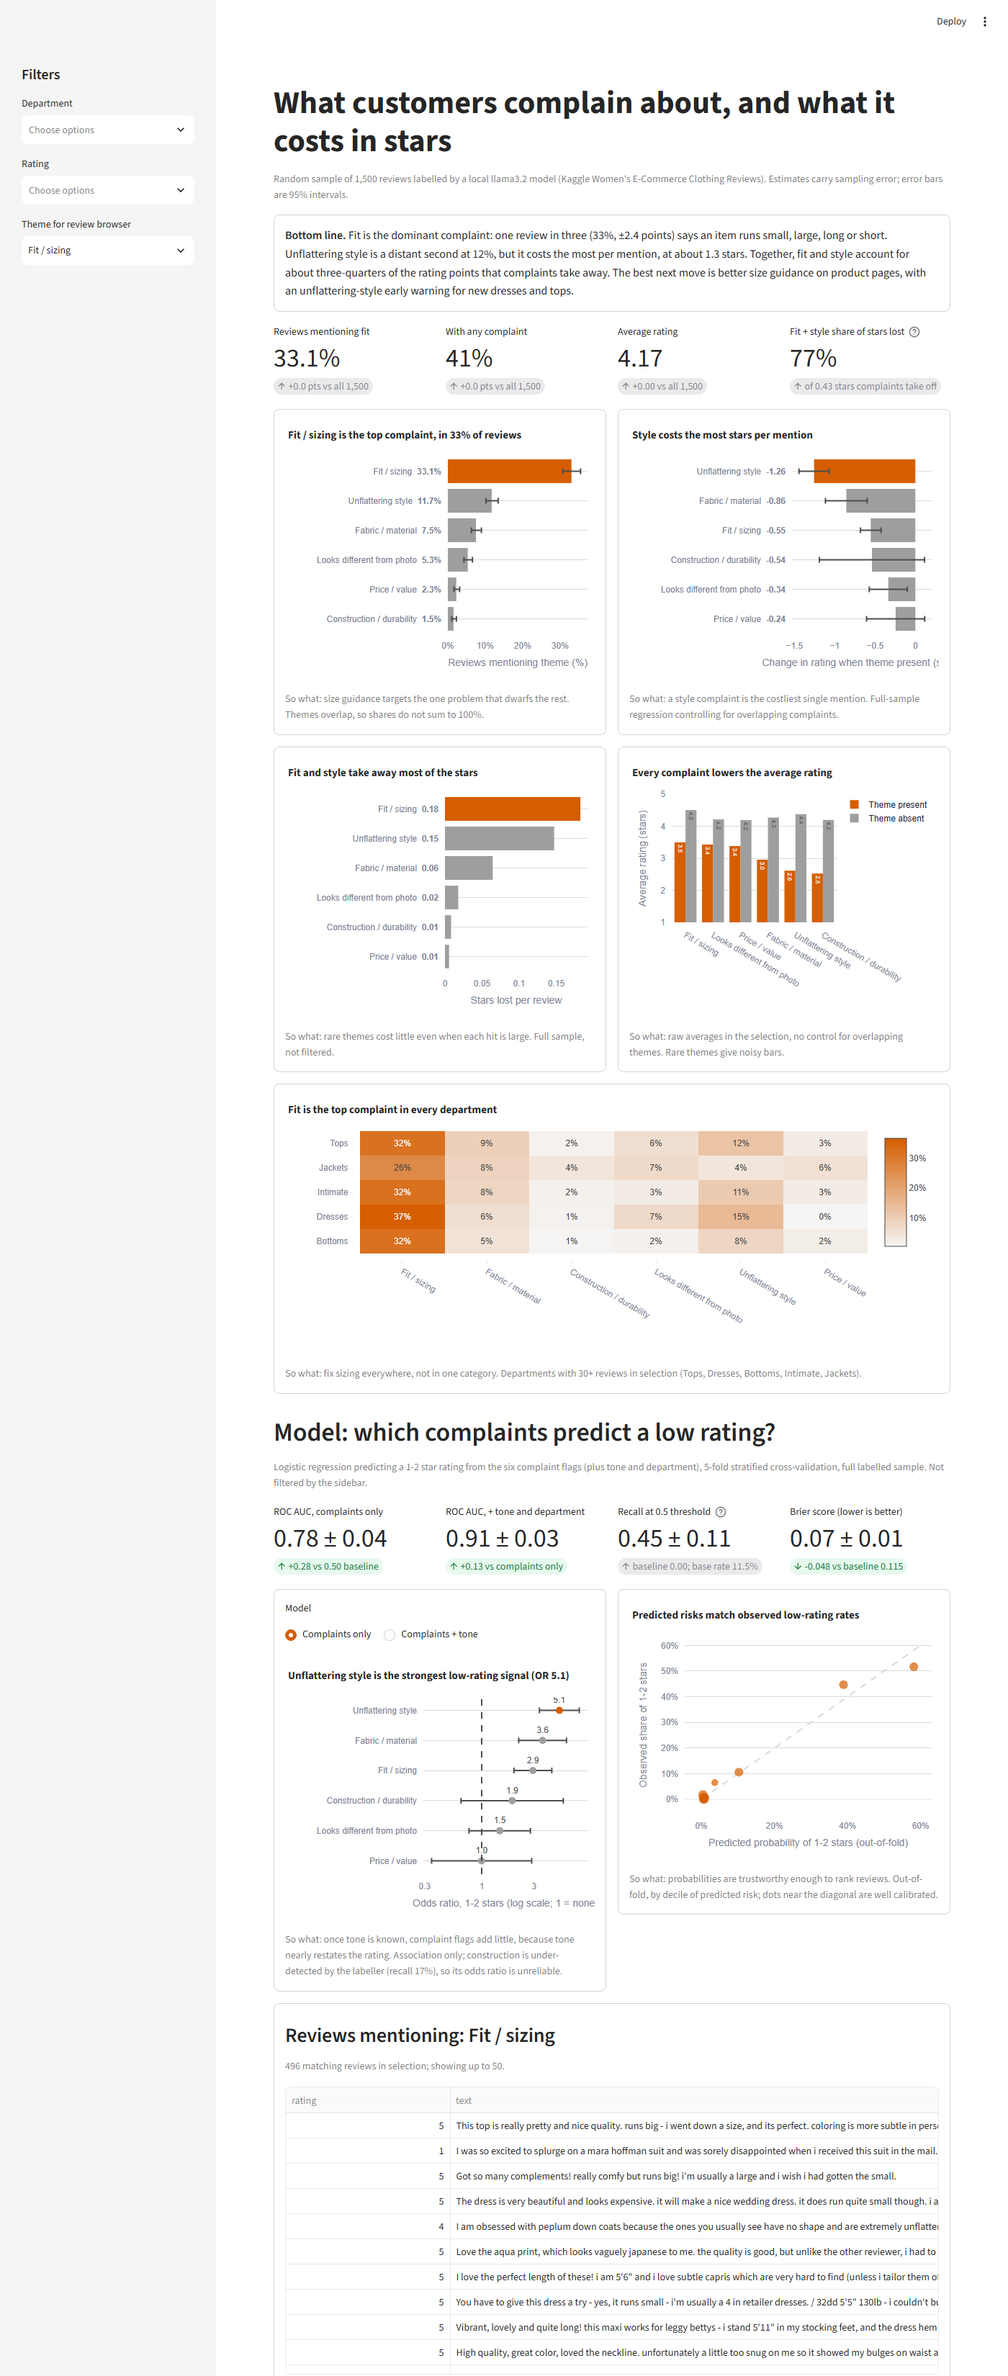
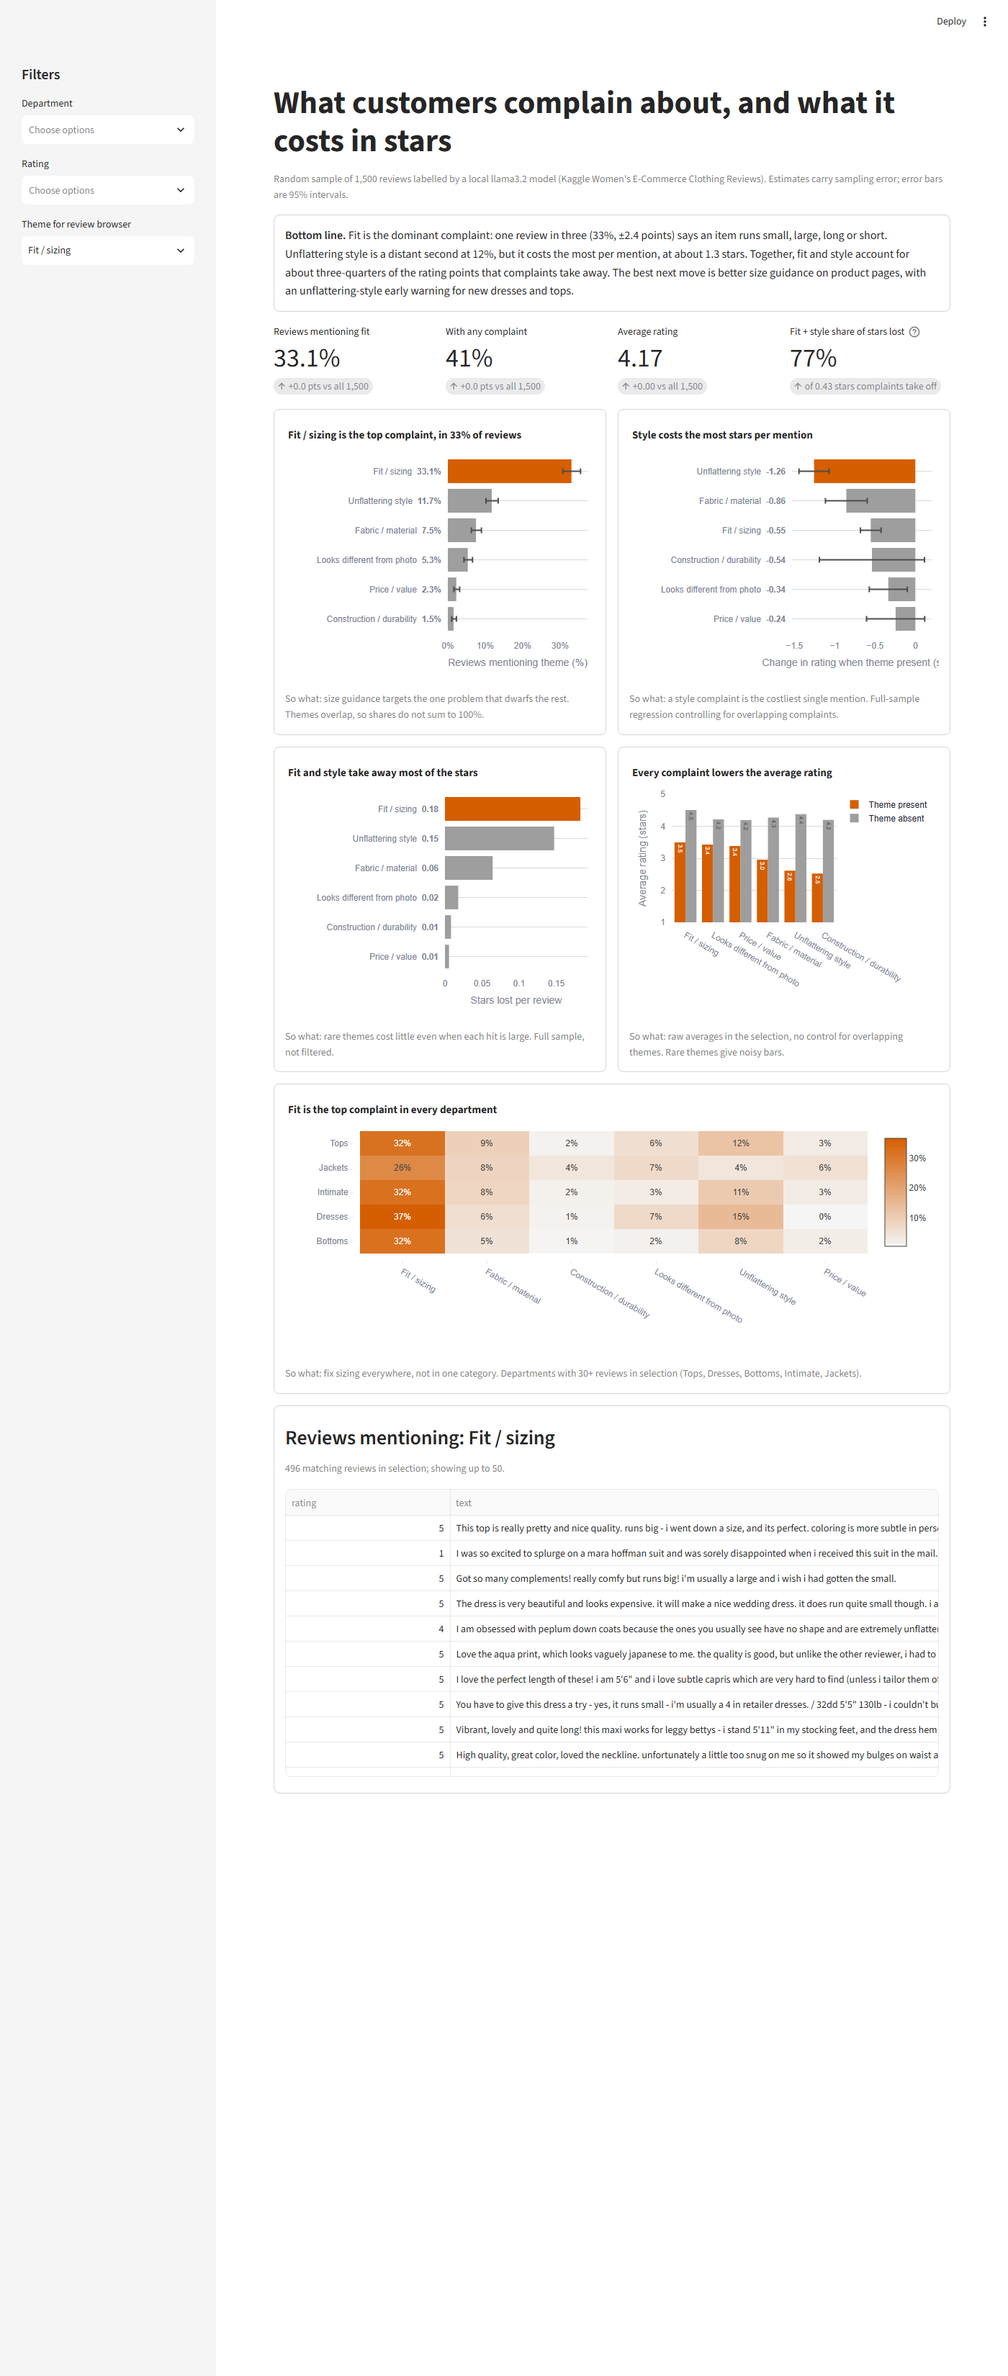
Visuals upgrade only: themed dashboard, README preview and figures; predictive model kept on branch predictive-model

diff --git a/app.py b/app.py
@@ -6,7 +6,6 @@ import streamlit as st
 ACCENT, GREY, LIGHT, TEXT = "#D55E00", "#9E9E9E", "#D9D9D9", "#4D4D4D"
 THEMES = {"fit": "Fit / sizing", "fabric": "Fabric / material", "build": "Construction / durability",
           "photo": "Looks different from photo", "style": "Unflattering style", "price": "Price / value"}
-TERMS = {**THEMES, "tone_mixed": "Mixed tone", "tone_neg": "Negative tone"}
 st.set_page_config(page_title="Review Insights", layout="wide")
 
 
@@ -17,8 +16,7 @@ def load():
     df["any"] = df[list(THEMES)].any(axis=1)
     mod = pd.read_csv("outputs/rating_model.csv")
     mod = mod[mod["spec"] == "themes only"].assign(name=lambda d: d["theme"].map(THEMES))
-    cv = pd.read_csv("outputs/06_model_cv.csv").set_index("model")
-    return df, mod, cv, pd.read_csv("outputs/08_model_odds_ratios.csv"), pd.read_csv("outputs/07_model_calibration.csv")
+    return df, mod
 
 
 def wilson(k, n, z=1.96):
@@ -45,31 +43,7 @@ def hbar(d, x, y, title, xtitle, fmt, hover, lo=None, hi=None, **kw):
     return layout(fig, title, xtitle, "", **kw)
 
 
-def forest(d, title):
-    d = d.sort_values("odds_ratio")
-    top = d["odds_ratio"].idxmax()
-    fig = go.Figure(go.Scatter(
-        x=d["odds_ratio"], y=d["name"], mode="markers+text", text=d["odds_ratio"].map("{:.1f}".format),
-        textposition="top center", marker=dict(size=10, color=[ACCENT if i == top else GREY for i in d.index]),
-        error_x=dict(type="data", symmetric=False, array=d["ci_high"] - d["odds_ratio"],
-                     arrayminus=d["odds_ratio"] - d["ci_low"], color=TEXT), customdata=d[["ci_low", "ci_high"]],
-        hovertemplate="%{y}<br>odds ratio %{x:.2f} (95% CI %{customdata[0]:.2f} to %{customdata[1]:.2f})<extra></extra>"))
-    fig.add_vline(x=1, line_dash="dash", line_color=TEXT)
-    fig.update_xaxes(type="log", tickvals=[.1, .3, 1, 3, 10, 30, 100, 300], ticktext=["0.1", "0.3", "1", "3", "10", "30", "100", "300"])
-    return layout(fig, title, "Odds ratio, 1-2 stars (log scale; 1 = none)", "")
-
-
-def calibration(cal, title):
-    fig = go.Figure([go.Scatter(x=[0, .6], y=[0, .6], mode="lines", line=dict(color=LIGHT, dash="dash"), hoverinfo="skip"),
-                     go.Scatter(x=cal["predicted"], y=cal["observed"], mode="markers", marker_color=ACCENT,
-                                marker_size=cal["n"] ** .5, customdata=cal["n"],
-                                hovertemplate="predicted %{x:.1%}, observed %{y:.1%}<br>%{customdata} reviews<extra></extra>")])
-    fig.update_xaxes(tickformat=".0%")
-    fig.update_yaxes(tickformat=".0%")
-    return layout(fig, title, "Predicted probability of 1-2 stars (out-of-fold)", "Observed share of 1-2 stars")
-
-
-df, mod, cv, orr, cal = load()
+df, mod = load()
 st.title("What customers complain about, and what it costs in stars")
 st.caption(f"Random sample of {len(df):,} reviews labelled by a local llama3.2 model (Kaggle Women's E-Commerce "
            "Clothing Reviews). Estimates carry sampling error; error bars are 95% intervals.")
@@ -153,31 +127,6 @@ with st.container(border=True):
                                    hovertemplate="%{y}, %{x}: %{z:.1%}<extra></extra>", colorbar_tickformat=".0%"))
         st.plotly_chart(layout(fig, "Fit is the top complaint in every department", "", ""), width="stretch")
         st.caption(f"So what: fix sizing everywhere, not in one category. Departments with 30+ reviews in selection ({', '.join(keep)}).")
-
-st.header("Model: which complaints predict a low rating?")
-st.caption("Logistic regression predicting a 1-2 star rating from the six complaint flags (plus tone and department), "
-           "5-fold stratified cross-validation, full labelled sample. Not filtered by the sidebar.")
-full, flg, base = (cv.loc[s] for s in ["flags + tone + department", "flags only", "majority baseline"])
-sd = lambda r, c: f"{r[c + '_mean']:.2f} ± {r[c + '_sd']:.2f}"
-mk = st.columns(4)
-mk[0].metric("ROC AUC, complaints only", sd(flg, "auc"), f"{flg['auc_mean'] - base['auc_mean']:+.2f} vs 0.50 baseline")
-mk[1].metric("ROC AUC, + tone and department", sd(full, "auc"), f"{full['auc_mean'] - flg['auc_mean']:+.2f} vs complaints only")
-mk[2].metric("Recall at 0.5 threshold", sd(full, "recall"), f"baseline {base['recall_mean']:.2f}; base rate {full['base_rate']:.1%}", delta_color="off",
-             help=f"Precision at 0.5: {sd(full, 'precision')}. The baseline predicts no positives, so its precision is undefined (shown as 0).")
-mk[3].metric("Brier score (lower is better)", sd(full, "brier"), f"{full['brier_mean'] - base['brier_mean']:+.3f} vs baseline {base['brier_mean']:.3f}", delta_color="inverse")
-
-m1, m2 = st.columns(2)
-with m1.container(border=True):
-    spec = st.radio("Model", ["flags only", "flags + tone + department"], horizontal=True,
-                    format_func=lambda s: "Complaints only" if s == "flags only" else "Complaints + tone")
-    o = orr[(orr["spec"] == spec) & orr["term"].isin(TERMS)].assign(name=lambda d: d["term"].map(TERMS))
-    top = o.loc[o["odds_ratio"].idxmax()]
-    st.plotly_chart(forest(o, f"{top['name']} is the strongest low-rating signal (OR {top['odds_ratio']:.1f})"), width="stretch")
-    st.caption("So what: once tone is known, complaint flags add little, because tone nearly restates the rating. "
-               "Association only; construction is under-detected by the labeller (recall 17%), so its odds ratio is unreliable.")
-with m2.container(border=True):
-    st.plotly_chart(calibration(cal, "Predicted risks match observed low-rating rates"), width="stretch")
-    st.caption("So what: probabilities are trustworthy enough to rank reviews. Out-of-fold, by decile of predicted risk; dots near the diagonal are well calibrated.")
 
 with st.container(border=True):
     st.subheader(f"Reviews mentioning: {THEMES[browse]}")

diff --git a/make_figures.py b/make_figures.py
@@ -2,6 +2,7 @@
 import matplotlib.pyplot as plt
 import numpy as np
 import pandas as pd
+from matplotlib.colors import LinearSegmentedColormap
 
 ACCENT, GREY, LIGHT, TEXT = "#D55E00", "#9E9E9E", "#D9D9D9", "#4D4D4D"
 NAMES = {"fit": "Fit / sizing", "fabric": "Fabric / material", "build": "Construction / durability",
@@ -48,28 +49,14 @@ bars(mod.assign(coef=mod["drop"], lo=-mod["ci_high"], hi=-mod["ci_low"]), "coef"
 bars(mod, "lost", "label", "Fit and style make up most of the stars complaints take away",
      "Stars lost per review (penalty x prevalence)", "fig3_stars_lost", "{:.2f}")
 
-orr = pd.read_csv("outputs/08_model_odds_ratios.csv")
-orr = orr[(orr["spec"] == "flags only")].assign(label=lambda d: d["term"].map(NAMES)).sort_values("odds_ratio")
+dep = pd.read_csv("outputs/03_theme_by_department.csv")
+dep = dep.pivot(index="department", columns="theme", values=dep.columns[-1]).rename(columns=NAMES)
+dep = dep[[NAMES[t] for t in ["fit", "style", "fabric", "photo", "price", "build"]]]
 fig, ax = plt.subplots(figsize=(8, 4))
-ax.errorbar(orr["odds_ratio"], orr["label"], xerr=[orr["odds_ratio"] - orr["ci_low"], orr["ci_high"] - orr["odds_ratio"]],
-            fmt="none", ecolor=TEXT, capsize=3)
-ax.scatter(orr["odds_ratio"], orr["label"], s=60, zorder=3, color=[GREY] * (len(orr) - 1) + [ACCENT])
-for i, v in enumerate(orr["odds_ratio"]):
-    ax.annotate(f"{v:.1f}", (v, i), xytext=(0, 8), textcoords="offset points", ha="center", fontsize=9)
-ax.axvline(1, color=TEXT, ls="--")
-ax.set_xscale("log")
-ax.set_xticks([0.5, 1, 2, 5, 10], ["0.5", "1", "2", "5", "10"])
-ax.grid(axis="y", visible=False)
-save(fig, "Style and fabric complaints most strongly predict a 1-2 star rating",
-     "Odds ratio of a 1-2 star rating (log scale; 1 = no association; 95% CI)", "fig4_odds_ratios")
-
-cal = pd.read_csv("outputs/07_model_calibration.csv")
-fig, ax = plt.subplots(figsize=(6, 5))
-ax.plot([0, .6], [0, .6], color=GREY, ls="--", label="Perfect calibration")
-ax.scatter(cal["predicted"], cal["observed"], s=cal["n"], color=ACCENT, zorder=3, label="Decile of predicted risk")
-ax.set(ylabel="Observed share of 1-2 stars")
-ax.xaxis.set_major_formatter("{x:.0%}")
-ax.yaxis.set_major_formatter("{x:.0%}")
-ax.legend(frameon=False)
-save(fig, "Predicted low-rating risks match what was observed", "Predicted probability of 1-2 stars (out-of-fold)",
-     "fig5_calibration")
+ax.grid(False)
+ax.imshow(dep, cmap=LinearSegmentedColormap.from_list("a", ["#F5F5F5", ACCENT]), aspect="auto")
+ax.set_xticks(range(dep.shape[1]), dep.columns, rotation=20, ha="right")
+ax.set_yticks(range(dep.shape[0]), dep.index)
+for (i, j), v in np.ndenumerate(dep.values):
+    ax.annotate(f"{v:.0%}", (j, i), ha="center", va="center", fontsize=9)
+save(fig, "Fit is the top complaint in every department", "", "fig4_department")

diff --git a/README.md b/README.md
@@ -25,6 +25,8 @@ Run it with `streamlit run app.py`.
 
 ![Complaint prevalence](assets/fig1_prevalence.png)
 
+![Theme rate by department](assets/fig4_department.png)
+
 3. **Unflattering style is linked to the biggest rating drop per mention, and fit to the biggest drop in total.** A regression controls for reviews that raise several complaints at once. Holding the other complaints constant, an unflattering-style complaint goes with 1.26 fewer stars, a fabric complaint with 0.86 fewer, fit with 0.55 fewer and photo mismatch with 0.34 fewer. Price and construction effects are not statistically distinguishable from zero. Multiplying each penalty by how often the complaint appears, fit costs 0.18 stars per average review and style 0.15. Those two make up 77% of the roughly 0.43 stars that complaints take off the average rating.
 
 ![Stars lost per mention](assets/fig2_penalty.png)
@@ -33,7 +35,6 @@ Run it with `streamlit run app.py`.
 
 4. **The model agrees moderately to well on the big themes but undercounts construction complaints.** On the 100 reference reviews, theme-level agreement ranges from 83% (fit) to 99% (price). Cohen's kappa is 0.81 for style, 0.67 for fabric and 0.59 for both fit and photo. Tone agreement is 93% (kappa 0.86). All six theme labels match exactly on 67 of 100 reviews. The weak spot is construction and durability: the model caught 1 of the 6 the reference found (recall 17%, kappa 0.27). The 1.5% construction rate is therefore an undercount and should not be read as "construction is not a problem."
 5. **The results are not a department-mix artifact, and the sample is representative.** Adding department to the regression moves no coefficient by more than 0.03 stars, so no Simpson's paradox appears. The sample's rating and department mix are within 0.9 points of the full 22,634 reviews on every category.
-6. **Complaints alone rank low ratings (AUC 0.78 ± 0.04 vs 0.50 for the baseline), with style, fabric and fit the strongest signals, but they catch only 13% of low ratings at a 0.5 cutoff.** See section 4; tone adds most of the extra accuracy and is nearly a restatement of the rating.
 
 ## 3. Recommendations (ranked by impact vs. effort)
 
@@ -45,36 +46,13 @@ Run it with `streamlit run app.py`.
 
 The star gains are small because the average is already 4.2 and most reviews are positive. The practical value is fewer 1–2 star reviews on the items that drive them, plus fewer returns.
 
-## 4. Model: which complaints predict a low rating?
-
-A logistic regression (`model.py`) predicts a **1-2 star rating** (172 of 1,500 reviews, a base rate of 11.5%) from the six complaint flags, tone and department. Results are 5-fold stratified cross-validation (`random_state=42`), mean ± sd across folds, at a 0.5 threshold (`outputs/06_model_cv.csv`).
-
-| Model | ROC AUC | Precision | Recall | Brier (lower is better) |
-|---|---|---|---|---|
-| Majority class (always "not low") | 0.50 ± 0.00 | undefined (no positive predictions, shown as 0) | 0.00 | 0.115 ± 0.002 |
-| Complaint flags only | 0.78 ± 0.04 | 0.48 ± 0.20 | 0.13 ± 0.07 | 0.087 ± 0.009 |
-| Flags + tone + department | 0.91 ± 0.03 | 0.53 ± 0.10 | 0.45 ± 0.11 | 0.067 ± 0.008 |
-
-**Complaints alone rank low ratings well (AUC 0.78 vs 0.50) but miss most of them at a 0.5 cutoff (recall 13%).** Adding tone lifts AUC to 0.91, but that is mostly tone restating the rating: 142 of 275 negative-tone reviews are 1-2 stars, against 7 of 1,002 positive-tone reviews. With tone in the model, no complaint odds ratio is distinguishable from 1.
-
-![Odds ratios](assets/fig4_odds_ratios.png)
-
-Odds ratios from a statsmodels Logit on all 1,500 reviews (`outputs/08_model_odds_ratios.csv`, complaints-only model): unflattering style 5.1 (95% CI 3.4-7.8), fabric 3.6 (2.2-6.0), fit 2.9 (2.0-4.4). Photo mismatch (1.5, 0.8-2.8), construction (1.9, 0.6-5.6) and price (1.0, 0.3-2.9) have intervals that include 1. In the full model, negative tone has an odds ratio of 131 (56-306) and mixed tone 15 (6.2-37). Trend (11 reviews) was merged into Jackets so no department cell is tiny; the reference levels are positive tone and Tops. No separation occurred: construction, the rarest flag, has 23 reviews, 11 of them low.
-
-![Calibration](assets/fig5_calibration.png)
-
-Calibration (out-of-fold predictions, deciles, `outputs/07_model_calibration.csv`): the top two deciles predict 39% and 58% against 45% and 52% observed. The Brier score drops from 0.115 (baseline) to 0.067. The low-risk deciles are tied near 1%, so they carry little information.
-
-**Read this with the limits below:** the labels come from a 3B model, so every odds ratio is attenuated by labelling error, construction especially (recall 17%). The model shows association, not causation. With 172 positives and 5 folds, fold-to-fold sd is sizeable.
-
-## 5. Method and rigor
+## 4. Method and rigor
 
 - **Pipeline:**
   1. `clean.py` writes `data/clean/reviews.parquet` and [DATA_QUALITY.md](DATA_QUALITY.md). It drops 845 reviews with no text and 7 exact duplicates, and fills 13 missing departments with "Unknown".
   2. `classify.py` runs the LLM labeling and writes `data/clean/labels.parquet`.
   3. `analyze.py` runs `sql/01`–`05` in DuckDB plus the regression and writes `outputs/*.csv`.
-  4. `model.py` runs the low-rating logistic regression and writes `outputs/06`–`08`.
-  5. `app.py` is the Streamlit dashboard; `make_figures.py` draws `assets/*.png`; `screenshot.py` captures the dashboard preview.
+  4. `app.py` is the Streamlit dashboard.
 
   Every result figure above comes from a file in `outputs/` or simple arithmetic on one. Process notes, such as throughput, come from the build log.
 - **Sampling:** 1,500 reviews were drawn uniformly at random (`random_state=42`) from the 22,634 clean reviews. Margins of error are 95% Wilson intervals. The finite-population correction is negligible because the sample is 6.6% of the population (it shrinks intervals by about 3%), so it is not applied.
@@ -86,23 +64,21 @@ Calibration (out-of-fold predictions, deciles, `outputs/07_model_calibration.csv
 - **Accuracy check:** 100 reviews were drawn at random from the sample (`random_state=7`). The reference labeler is **Claude, the AI assistant that built this repo, not a human annotator.** Claude read each review and labeled it with the same theme definitions, without seeing the model's labels (`data/reference_labels.csv`). `sql/05_llm_vs_reference.sql` reports agreement, precision, recall and Cohen's kappa per theme.
 - **Rating cost:** an OLS regression of star rating on the six complaint flags, with HC3 robust errors (`outputs/rating_model.csv`). A second version adds department fixed effects as a Simpson's paradox check. "Stars lost per review" = coefficient × prevalence.
 
-## 6. Limitations and risks
+## 5. Limitations and risks
 
 - **Association, not causation.** Review text and star rating are written together, so a complaint and a low rating are two expressions of the same disappointment. The coefficients show how much lower complaining reviews rate, not how much a fix would raise ratings. Treat the impact ranges as optimistic.
 - **The reference labels are not human ground truth.** A second AI model wrote them. Agreement measures consistency between two readers, not accuracy against a human panel. A human-labeled set would raise confidence.
 - **Small model, small check.** llama3.2 is a 3B-parameter model. With 100 reference reviews, rare themes rest on very few positives (6 construction, 2 price), so their kappas are unstable.
 - **Construction is undercounted** (recall 17% on the reference set). Its prevalence and star cost are not reliable.
 - **Survivorship and selection.** Only customers who chose to write a review appear here. Customers who returned items silently, or never bought, are missing.
-- **Tone leaks the outcome.** Tone is read from the same review text as the rating, so the model with tone (AUC 0.91) partly predicts a rating from its own wording. Read the complaints-only model (AUC 0.78) for what complaints add.
 - **No business outcome data.** The dataset has no returns, revenue or item-level sales, so impact is expressed in stars, not dollars.
 
-## 7. Next steps
+## 6. Next steps
 
 1. Have a person label 200–300 reviews, with emphasis on construction and price, to measure true accuracy and recalibrate theme rates.
 2. Rerun the pipeline monthly on new reviews to track whether fit and style complaint rates move after recommendations 1 and 2.
 3. Join return reasons and item sales, so complaint themes can be priced in dollars, not stars.
-4. Collect more reviews and a human-labelled set so the model's odds ratios (rare themes especially) have tighter intervals.
-5. Try a larger local model (8B) on the reference set and keep it if construction recall improves.
+4. Try a larger local model (8B) on the reference set and keep it if construction recall improves.
 
 ---
 
@@ -116,13 +92,12 @@ python -m kaggle datasets download nicapotato/womens-ecommerce-clothing-reviews 
 python clean.py       # -> data/clean/reviews.parquet, DATA_QUALITY.md
 python classify.py    # needs Ollama running with llama3.2 (ollama pull llama3.2); uses the committed cache, so nothing is re-sent
 python analyze.py     # -> outputs/*.csv
-python model.py       # -> outputs/06-08 (low-rating model)
 streamlit run app.py
 ```
 
 The cleaned data, the LLM label cache and the labels parquet file are all committed. The dashboard and `analyze.py` run straight after cloning, without Ollama or Kaggle.
 
-**Dashboard:** a bottom-line box, a KPI row plus five charts: complaint prevalence with 95% intervals; star penalty per theme; stars lost per review; average rating with vs without each theme; and theme rate by department. A model section shows cross-validated metrics against the baseline, an odds-ratio forest plot and a calibration plot. A review browser shows matching reviews. Filters cover department, rating and theme.
+**Dashboard:** a bottom-line box, a KPI row plus five charts: complaint prevalence with 95% intervals; star penalty per theme; stars lost per review; average rating with vs without each theme; and theme rate by department. A review browser shows matching reviews. Filters cover department, rating and theme.
 
 | Path | What it is |
 |---|---|
@@ -130,7 +105,6 @@ The cleaned data, the LLM label cache and the labels parquet file are all commit
 | `classify.py` | Sampling, LLM labeling with cache, keyword fallback |
 | `sql/01`–`05_*.sql` | Theme rates, rating gaps, department mix, sample check, LLM vs reference |
 | `analyze.py` | Runs the queries and the rating regression |
-| `model.py` | Low-rating logistic regression, cross-validation, odds ratios |
 | `app.py` | Streamlit dashboard |
 | `make_figures.py`, `screenshot.py` | README figures and dashboard screenshot (`assets/`) |
 | `data/reference_labels.csv` | The 100 reference labels |
